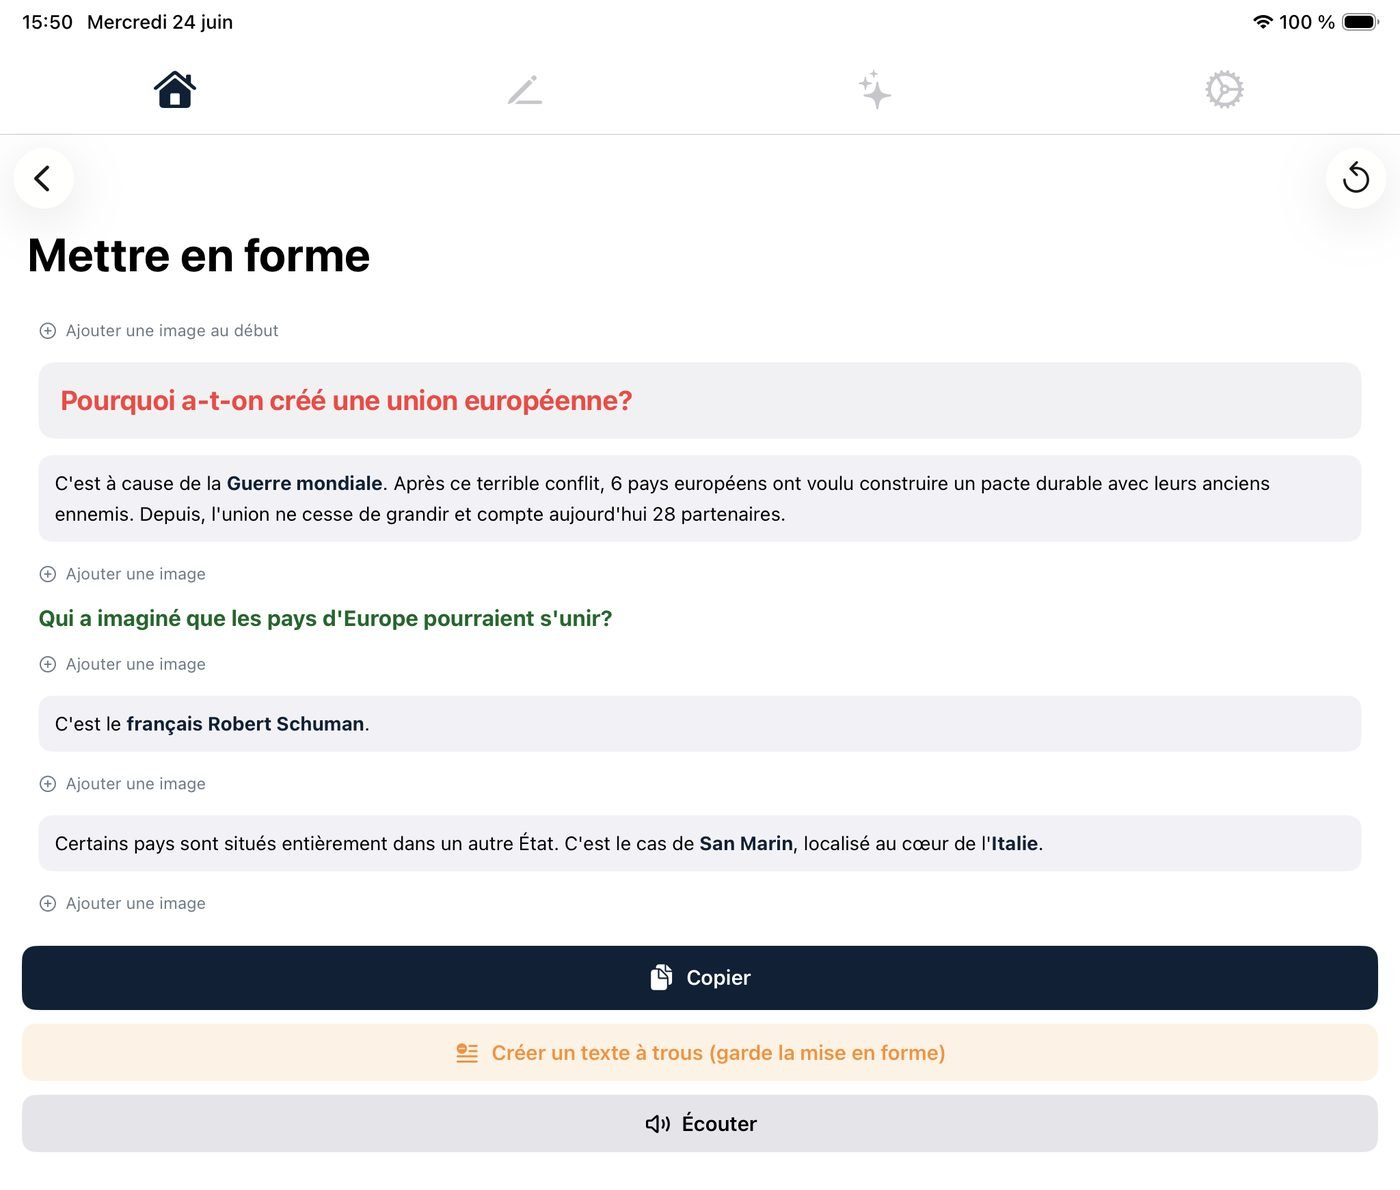
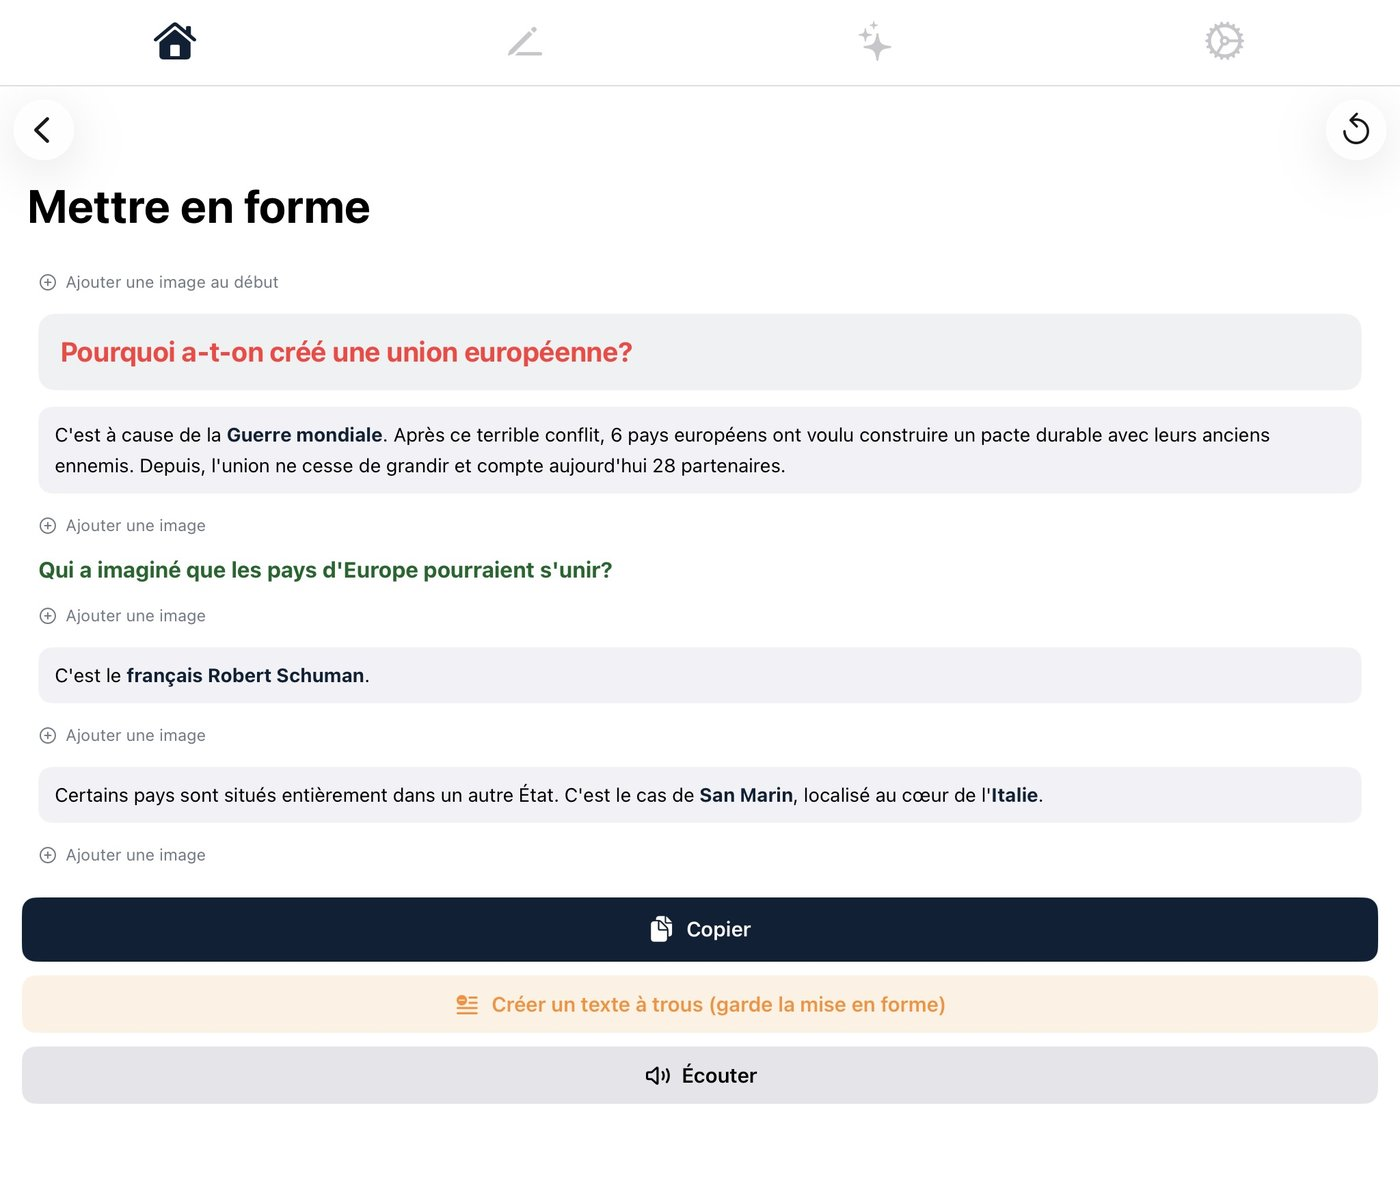
Add files via upload

diff --git a/index.html b/index.html
@@ -30,7 +30,7 @@
 <main id="top">
 
   <!-- ============ HERO ============ -->
-  <section class="hero grid-paper">
+  <section class="hero">
     <div class="wrap">
       <div class="hero-top">
         <span class="eyebrow">Ton assistant cognitif</span>
@@ -298,11 +298,11 @@
   </section>
 
   <!-- ============ FINAL CTA ============ -->
-  <section class="final-cta grid-paper">
+  <section class="final-cta">
     <div class="wrap">
       <span class="badge-soon" style="margin-bottom:22px;"><span class="pulse"></span> Bientôt sur l'App Store</span>
       <h2>Allez, on te prévient dès que c'est dispo ?</h2>
-      <p>Pas de spam, pas de liste revendue — juste un mail le jour J.</p>
+      <p>Pas de spam, pas de liste revendue — juste un mail le jour&nbsp;J.</p>
       <div class="hero-cta-row">
         <a class="btn btn-primary" href="mailto:support@kursif.app?subject=Liste%20d%27attente%20Kursif&body=Bonjour%2C%20je%20souhaite%20%C3%AAtre%20pr%C3%A9venu%C2%B7e%20du%20lancement%20de%20Kursif.">Préviens-moi !</a>
         <a class="btn btn-ghost" href="https://instagram.com/kursif.app" target="_blank" rel="noopener">On se suit ? @kursif.app</a>

diff --git a/styles.css b/styles.css
@@ -84,14 +84,6 @@ section{position:relative;}
 .squiggle{position:relative;display:inline-block;}
 .squiggle svg{position:absolute;left:0;bottom:-10px;width:100%;height:12px;}
 
-/* ---------- grid-paper texture (discret) ---------- */
-.grid-paper{
-  background-image:
-    linear-gradient(rgba(0,24,87,.045) 1px, transparent 1px),
-    linear-gradient(90deg, rgba(0,24,87,.045) 1px, transparent 1px);
-  background-size:26px 26px;
-}
-
 /* ---------- header ---------- */
 .site-header{
   position:sticky;top:0;z-index:50;
@@ -239,8 +231,9 @@ section{position:relative;}
 .chain-figure{
   border-radius:var(--radius-md);overflow:hidden;border:2.5px solid var(--navy);
   box-shadow:var(--shadow-soft);background:#fff;
+  aspect-ratio:6/5;display:flex;align-items:center;justify-content:center;
 }
-.chain-figure img{width:100%;display:block;}
+.chain-figure img{width:100%;height:100%;object-fit:contain;display:block;}
 .chain-cap{font-size:.98rem;color:var(--ink-soft);line-height:1.5;font-weight:700;}
 .chain-cap strong{color:var(--ink);font-weight:900;}
 .chain-arrow{display:flex;align-items:center;justify-content:center;color:var(--blue);padding-top:60px;}
